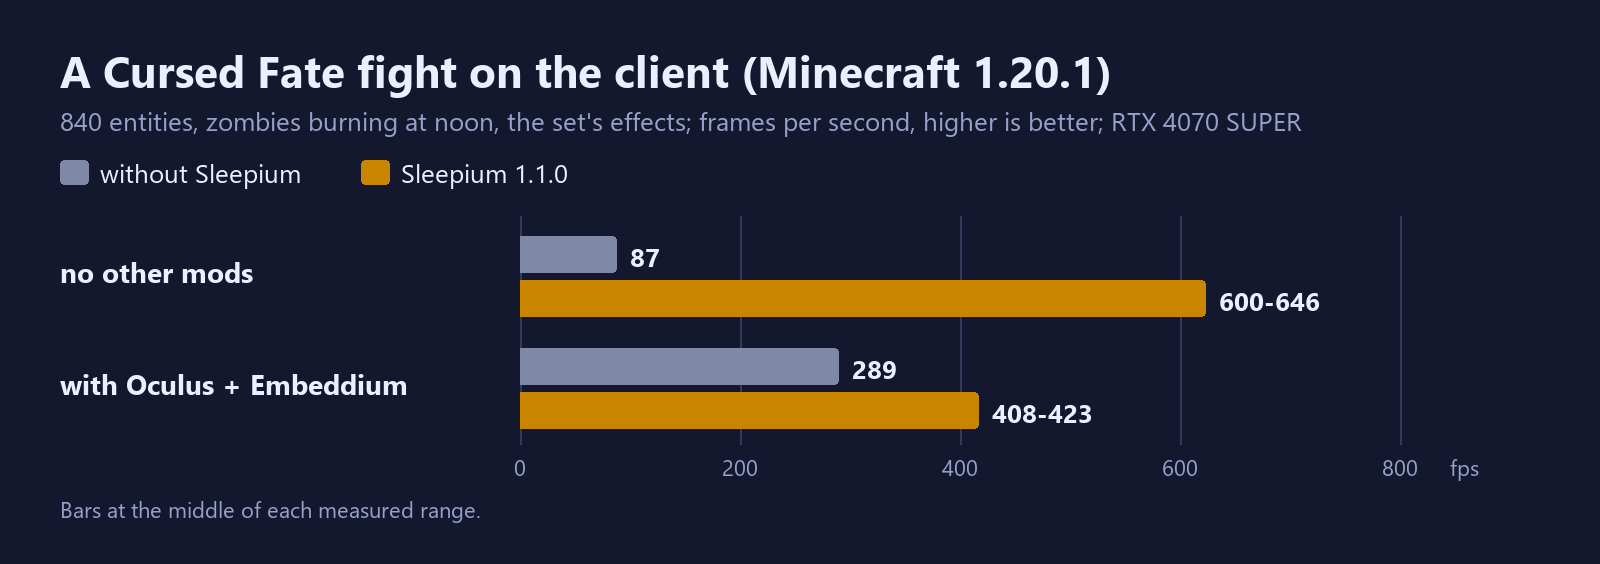
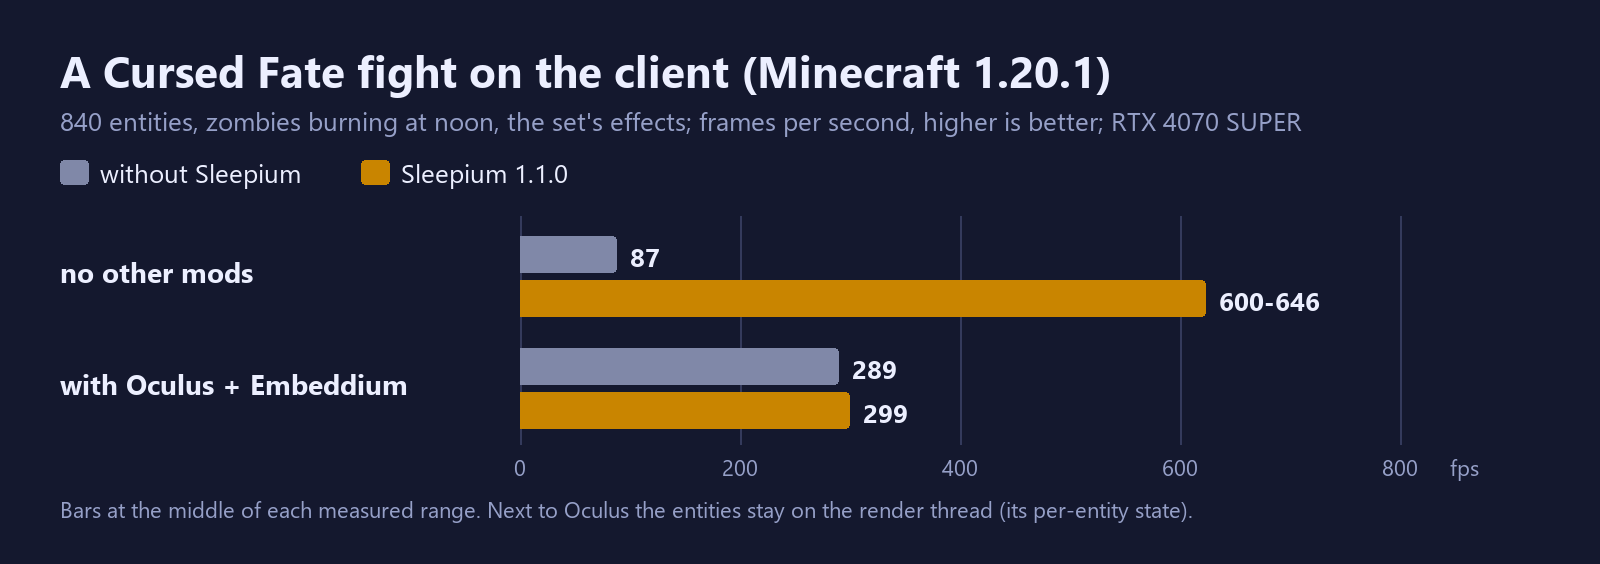
1.1.0 notes after the whole Biohazard pack: the crash with TerraBlender fixed (1.0.x on both versions), a null entry in another mod's mixin config, Entity Model Features + Fresh Animations (144 mobs: 20 -> 93 fps on 1.20.1, 37 -> 419 on 1.21.1); merging inside the dispatcher next to Oculus / Iris is

Changed region(s): [[0.3125, 0.8741, 0.75, 0.9344], [0.5312, 0.6933, 0.6875, 0.7837]]

diff --git a/tools/gen_charts.py b/tools/gen_charts.py
@@ -84,8 +84,17 @@ chart('forge-1201-n100.png', 'Minecraft 1.20.1 / Forge on an Intel N100 server',
 
 chart('cursedfate-fight.png', 'A Cursed Fate fight on the client (Minecraft 1.20.1)',
       '840 entities, zombies burning at noon, the set\'s effects; frames per second, higher is better; RTX 4070 SUPER',
-      [('no other mods', 87, 623, '87', '600-646'), ('with Oculus + Embeddium', 289, 416, '289', '408-423')],
-      ('without Sleepium', 'Sleepium 1.1.0'), 'fps', note='Bars at the middle of each measured range.')
+      [('no other mods', 87, 623, '87', '600-646'), ('with Oculus + Embeddium', 289, 299, '289', '299')],
+      ('without Sleepium', 'Sleepium 1.1.0'), 'fps',
+      note='Bars at the middle of each measured range. Next to Oculus the entities stay on the render thread (its per-entity state).')
+
+chart('packs-110.png', 'In modpacks: without Sleepium and with 1.1.0',
+      'production clients, frames per second, higher is better; RTX 4070 SUPER; EMF + FA: 144 mobs animated by Fresh Animations',
+      [('Biohazard, 473 mods (1.20.1)', 440, 576, '440', '576'),
+       ('EMF + Fresh Animations (1.20.1)', 20, 93, '20', '93'),
+       ('EMF + Fresh Animations (1.21.1)', 37, 419, '37', '419')],
+      ('without Sleepium (the same jars, optimisations off)', 'Sleepium 1.1.0'), 'fps',
+      note="The mob scenes: each version's saved test world plus the mobs, so they differ between the versions.")
 
 chart('next-to-mods-110.png', 'Next to other optimisation mods: what 1.1.0 brings back',
       'client_entities (armour stands, item frames, chests, signs, mobs), frames per second, higher is better',

diff --git a/CHANGELOG.md b/CHANGELOG.md
@@ -20,9 +20,15 @@ Both versions:
   - Iris / Oculus (without a shaderpack), Embeddium and ImmediatelyFast no longer keep the render cache on its slow
     path: client_entities with Embeddium 137 -> 845 fps, Oculus 238 -> 440-464, ImmediatelyFast 371 -> 681 (1.20.1);
     Iris + Sodium 377 -> 570, ImmediatelyFast 809 -> 1 149 (1.21.1). Frames as before, bit for bit.
-  - Iris / Oculus no longer keep every entity on the render thread: entities are drawn on workers and merged inside the
-    dispatcher, where those mods' state is set (a horde of burning zombies with Oculus + Embeddium 559 -> 718 fps,
-    with Iris + Sodium 636 -> 805).
+  - Entity Model Features with Fresh Animations: a scene of 144 animated mobs 20 -> 93 fps (1.20.1), 37 -> 419
+    (1.21.1). Entities whose renderer such mods (EMF, ETF, Iris / Oculus) take part in stay on the render thread, as
+    before: those mods keep the entity being drawn in globals.
+- **Crash at start with TerraBlender fixed** (1.0.x, both versions): TerraBlender makes methods Sleepium replaces public,
+  and Mixin refused Sleepium's narrower ones. TerraBlender is in many packs (Biomes O' Plenty, Regions Unexplored, ...).
+  The full Biohazard pack (473 mods, 1.20.1): 440 -> 576 fps.
+- A mod whose mixin config lists an empty (`null`) entry no longer hides the mods after it from Sleepium's check of
+  other mods' changes (Sleep Tight's does): in a large pack Sleepium then did not step aside for Radium and the game
+  did not start. Tested with the whole Biohazard pack (473 mods).
 - Burning entities are drawn on the parallel render workers (the flame where vanilla draws it).
 - Interpolated animated textures (`interpolate` in .mcmeta) are blended over the images' memory - pixel for pixel as
   vanilla, several times faster (a mod's 512x512 effect texture: 12 % -> 3.8 % of the render thread).
@@ -33,7 +39,7 @@ Both versions:
 - Entity sleep on Forge (entities are capability providers), the collision memo with production (SRG) names, entity
   data read without 1.20.1's lock and from an array.
 - On an Intel N100 production server: items 114.9 -> 10.7 ms per tick, mobs 22.2 -> 13.25. A Cursed Fate fight on the
-  client: 87 -> 600-646 fps; with Oculus + Embeddium 289 -> 408-423.
+  client: 87 -> 600-646 fps (with Oculus + Embeddium 289 -> 299: the entities stay on the render thread).
 - Not on 1.20.1: the adapters for Veil / Sable / Create Aeronautics (those mods are 1.21.1 only).
 
 The repository now keeps a branch per Minecraft version and loader; `main` is the front page with the documentation

diff --git a/docs/compatibility.md b/docs/compatibility.md
@@ -43,8 +43,13 @@ comparison); Lithium helps fluids, redstone and pistons and slows items.
 - **Iris / Sodium without a shaderpack** and **ImmediatelyFast**: their batching buffer sources no longer keep the
   render cache from drawing from video memory - client_entities with Iris + Sodium 377 -> 570 fps, with ImmediatelyFast
   809 -> 1 149 fps, frames bit for bit the same as before.
-- **Iris in `EntityRenderDispatcher.render`** no longer keeps every entity on the render thread: jobs are merged inside
-  the dispatcher, where Iris' state is set (a horde of burning zombies with Iris + Sodium 636 -> 805 fps).
+- **Mods in `EntityRenderDispatcher.render`** (Iris / Oculus, ETF, Entity Model Features, Embeddium) keep entities on
+  the render thread, as before: those mods keep the entity being drawn in globals that their mixins in renderers and
+  models read and write, so a worker would draw with another entity's state (with Fresh Animations, Entity Model
+  Features crashed that way in a test build). Merging inside the dispatcher is there to try (`-Dlab.prender.inner=true`)
+  but not on. With Entity Model Features + Fresh Animations, 144 animated mobs: 37 -> 419 fps (1.21.1).
+- **TerraBlender** (and the many mods built on it) no longer crashes the game at start: it makes methods Sleepium
+  replaces public, and Mixin refused Sleepium's narrower ones (1.0.x on 1.21.1 too).
 
 ## Minecraft 1.20.1 / Forge
 
@@ -78,8 +83,10 @@ items, mobs, redstone, villagers EXACT.
 | ImmediatelyFast 1.5.5 | | 681 | frame = without other mods |
 | EntityCulling, ModernFix, FerriteCore, Radium, Canary, Create | | 1 615-1 929 | run, no failures |
 | sodiumdynamiclights + Embeddium | | 863 | runs |
-| the whole set (13 mods), a horde of burning zombies | | 726 (was 544) | 5.68 M of 5.72 M entities on workers |
-| a Cursed Fate fight with Oculus + Embeddium | 289 | 408-423 | |
+| the whole set (13 mods), a horde of burning zombies | | 544 | entities on the render thread (Oculus, Embeddium in the dispatcher) |
+| a Cursed Fate fight with Oculus + Embeddium | 289 | 299 | |
+| the Biohazard pack (473 mods), a new world | 440 | 576 | starts, plays; Sleepium steps aside in 38 places |
+| Entity Model Features + ETF + Fresh Animations, 144 mobs | 20 | 93 | |
 
 Where Sleepium steps aside on 1.20.1: with Embeddium / Oculus the chunk renderer and a few render hooks (their own),
 with Radium / Canary collisions, entity sections, POI search and brains (theirs), with ModernFix parts of world

diff --git a/art/description.md b/art/description.md
@@ -45,7 +45,7 @@ Intel N100, production server, milliseconds per tick:
 | 1 024 idle hoppers | 6.68 | 2.4 |
 
 The fights from a player's Cursed Fate videos (840 entities, zombies burning at noon, black holes and supernovas):
-**87 -> 600-646 fps**; with Oculus + Embeddium installed 289 -> 408-423 fps.
+**87 -> 600-646 fps**; with Oculus + Embeddium installed 289 -> 299 fps (next to Oculus the entities stay on the render thread).
 
 ## New in 1.1.0: the gains kept next to other optimisation mods
 
@@ -60,8 +60,17 @@ Tested one mod at a time and as a pack (Biohazard: Project Genesis' optimisation
 | ImmediatelyFast (1.21.1), client fps | 809 | 1 149 |
 | Lithium (1.21.1), 4 000 items, ms per tick | 4.32 | 3.37 |
 
+In packs, without Sleepium and with 1.1.0 (production clients):
+
+| | without | 1.1.0 |
+|---|---:|---:|
+| Biohazard, 473 mods (1.20.1), a new world, fps | 440 | 576 |
+| Entity Model Features + Fresh Animations, 144 mobs (1.20.1), fps | 20 | 93 |
+| Entity Model Features + Fresh Animations, 144 mobs (1.21.1), fps | 37 | 419 |
+
 Entity sleep now works next to mods that change entities (Lithium, Radium, Canary); ModernFix no longer turns off the
-collision memo; Iris and Oculus no longer keep entities off the render workers. Exact: world and frame hashes as before.
+collision memo. Fixed: a crash at start with TerraBlender (Biomes O' Plenty, Regions Unexplored and many packs) in
+1.0.x. Exact: world and frame hashes as before.
 
 ## Water and glass in one draw (1.0.3)
 

diff --git a/README.md b/README.md
@@ -26,10 +26,12 @@ or the [GitHub releases](../../releases). Each release has one jar per supported
 | 4 000 items on the ground, Intel N100 server, ms per tick (1.21.1) | 111 | 8.1 |
 | 4 000 items on the ground, Intel N100 server, ms per tick (1.20.1) | 115 | 10.7 |
 | A Cursed Fate fight (840 entities, burning mobs), fps, 1.20.1 | 87 | 600-646 |
-| The same fight with Oculus + Embeddium installed, fps | 289 | 408-423 |
+| The Biohazard pack (473 mods, 1.20.1), a new world, fps | 440 | 576 |
+| 144 mobs with Entity Model Features + Fresh Animations, fps, 1.21.1 | 37 | 419 |
 
 How these were measured, on which hardware, and many more scenes: [docs/results.md](docs/results.md).
 
+<p align="center"><img src="art/gallery/packs-110.png" width="720" alt="Client fps in modpacks, without Sleepium and with 1.1.0"></p>
 <p align="center"><img src="art/gallery/next-to-mods-110.png" width="720" alt="Client fps next to other optimisation mods, before 1.1.0 and with 1.1.0"></p>
 <p align="center"><img src="art/gallery/forge-1201-n100.png" width="720" alt="Server time per tick on an Intel N100, Minecraft 1.20.1 / Forge, vanilla vs Sleepium"></p>
 

diff --git a/docs/results.md b/docs/results.md
@@ -285,7 +285,8 @@ default): most of what is left between the versions on light servers is vanilla'
 <p align="center"><img src="../art/gallery/forge-1201-n100.png" width="720" alt="1.20.1 server on an Intel N100"></p>
 
 Client, the fights from a player's Cursed Fate videos (840 entities, zombies burning at noon, the set's effects; RTX
-4070 SUPER): vanilla 87 fps, Sleepium 600-646; with Oculus + Embeddium installed 289 -> 408-423.
+4070 SUPER): vanilla 87 fps, Sleepium 600-646; with Oculus + Embeddium installed 289 -> 299 (next to Oculus the
+entities stay on the render thread).
 
 <p align="center"><img src="../art/gallery/cursedfate-fight.png" width="720" alt="A Cursed Fate fight on the client"></p>
 
